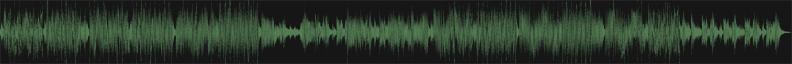
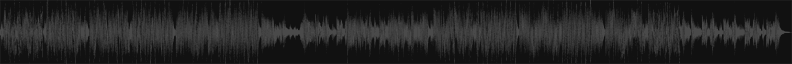
Symbolhafte Wellenform statt einfarbiger Hintergrund für `WaveWidget`.

diff --git a/wavewidget.cpp b/wavewidget.cpp
@@ -16,16 +16,18 @@ class WaveWidgetPrivate {
 public:
     WaveWidgetPrivate(void)
         : waveForm(16 * 1024, 128, QImage::Format_RGB32)
+        , defaultWaveform(":/images/waveform.png")
         , timerId(0)
         , backgroundColor(0x30, 0x30, 0x30)
         , cancelDraw(false)
         , duration(0)
         , position(0)
     {
-        waveForm.fill(backgroundColor);
+        resetWaveform();
     }
     SampleBuffer samples;
     QImage waveForm;
+    const QImage defaultWaveform;
     int timerId;
     const QColor backgroundColor;
     QFuture<void> drawFuture;
@@ -33,6 +35,11 @@ public:
     qint64 duration;
     qint64 position;
     QMutex drawMutex;
+
+    void resetWaveform(void) {
+        QPainter p(&waveForm);
+        p.drawImage(waveForm.rect(), defaultWaveform);
+    }
 };
 
 
@@ -105,7 +112,7 @@ void WaveWidget::cancel(void)
     killTimer(d->timerId);
     d->timerId = 0;
     d->drawFuture.waitForFinished();
-    d->waveForm.fill(d->backgroundColor);
+    d->resetWaveform();
     update();
 }
 
